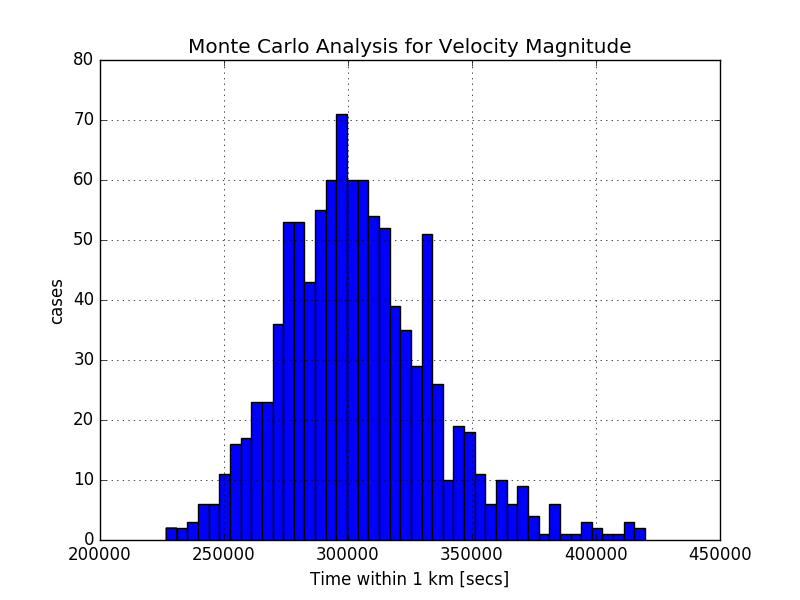
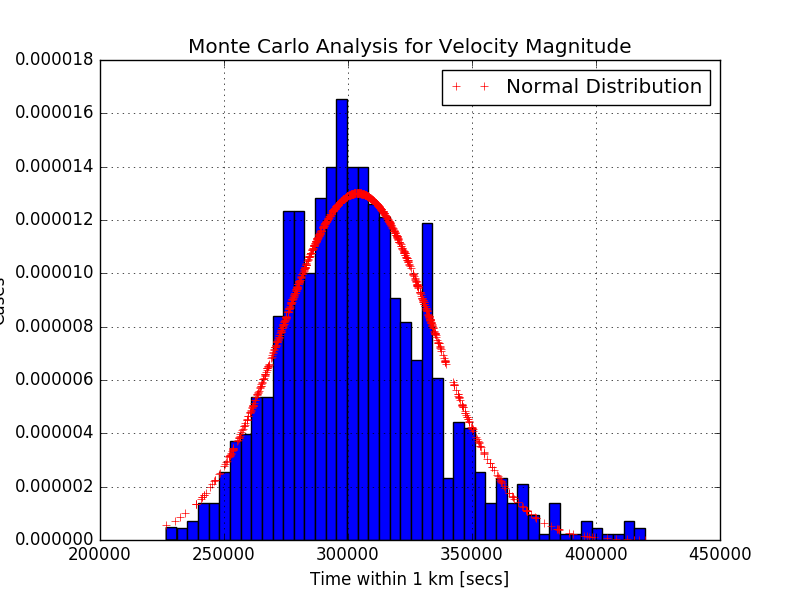
added a curve of best fit for a normal distribution.

diff --git a/curve_fitting.py b/curve_fitting.py
@@ -1,22 +1,21 @@
 import numpy as np
 import matplotlib.pyplot as plt
-# import matplotlib.mlab as mlab
+import matplotlib.mlab as mlab
 
 results = np.load('testing.npy')
 time1km = results[:, 1]
 cases = np.arange(0, 1000)
-# stdDeviation = np.std(time1km)
-# mean = np.mean(time1km)
+stdDeviation = np.std(time1km)
+mean = np.mean(time1km)
 
-# plt.plot(cases, time1km, label='Raw Data', marker='.', linestyle='none')
-plt.hist(time1km, bins=45)
-
-# y = mlab.normpdf(60, mean, stdDeviation)
-# plt.plot(y, 'r--', linewidth=1)
+plt.hist(time1km, bins=45, normed=True, facecolor='blue')
+x = np.sort(time1km)
+y = mlab.normpdf(x, mean, stdDeviation)
+plt.plot(x, y, 'r+', linewidth=1, label='Normal Distribution')
 
 plt.title('Monte Carlo Analysis for Velocity Magnitude')
 plt.xlabel('Time within 1 km [secs]')
-plt.ylabel('cases')
+plt.ylabel('Cases')
 plt.legend(loc='upper right')
 plt.grid()
 plt.savefig('histogram_velocity_magnitude.png')
